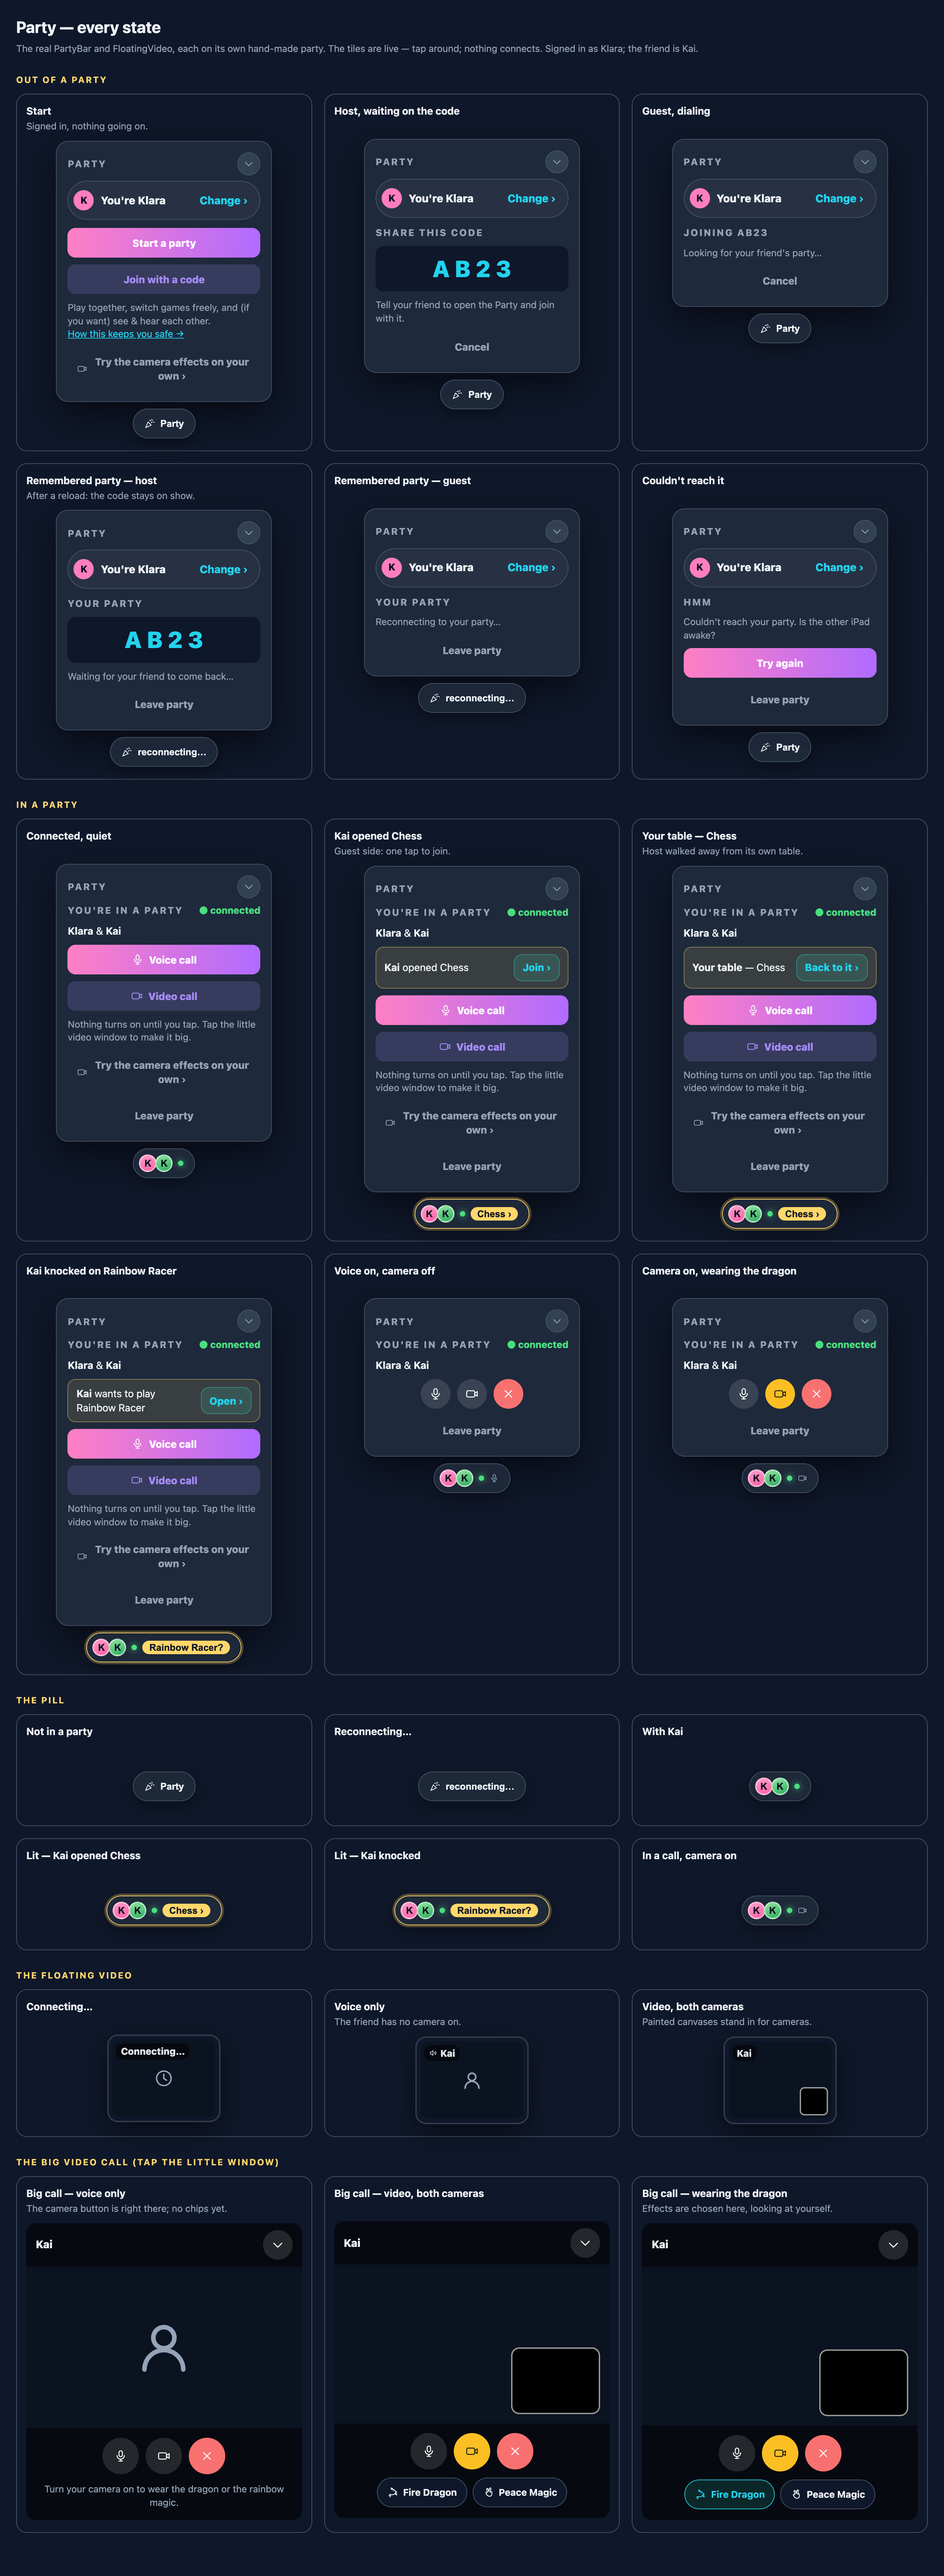
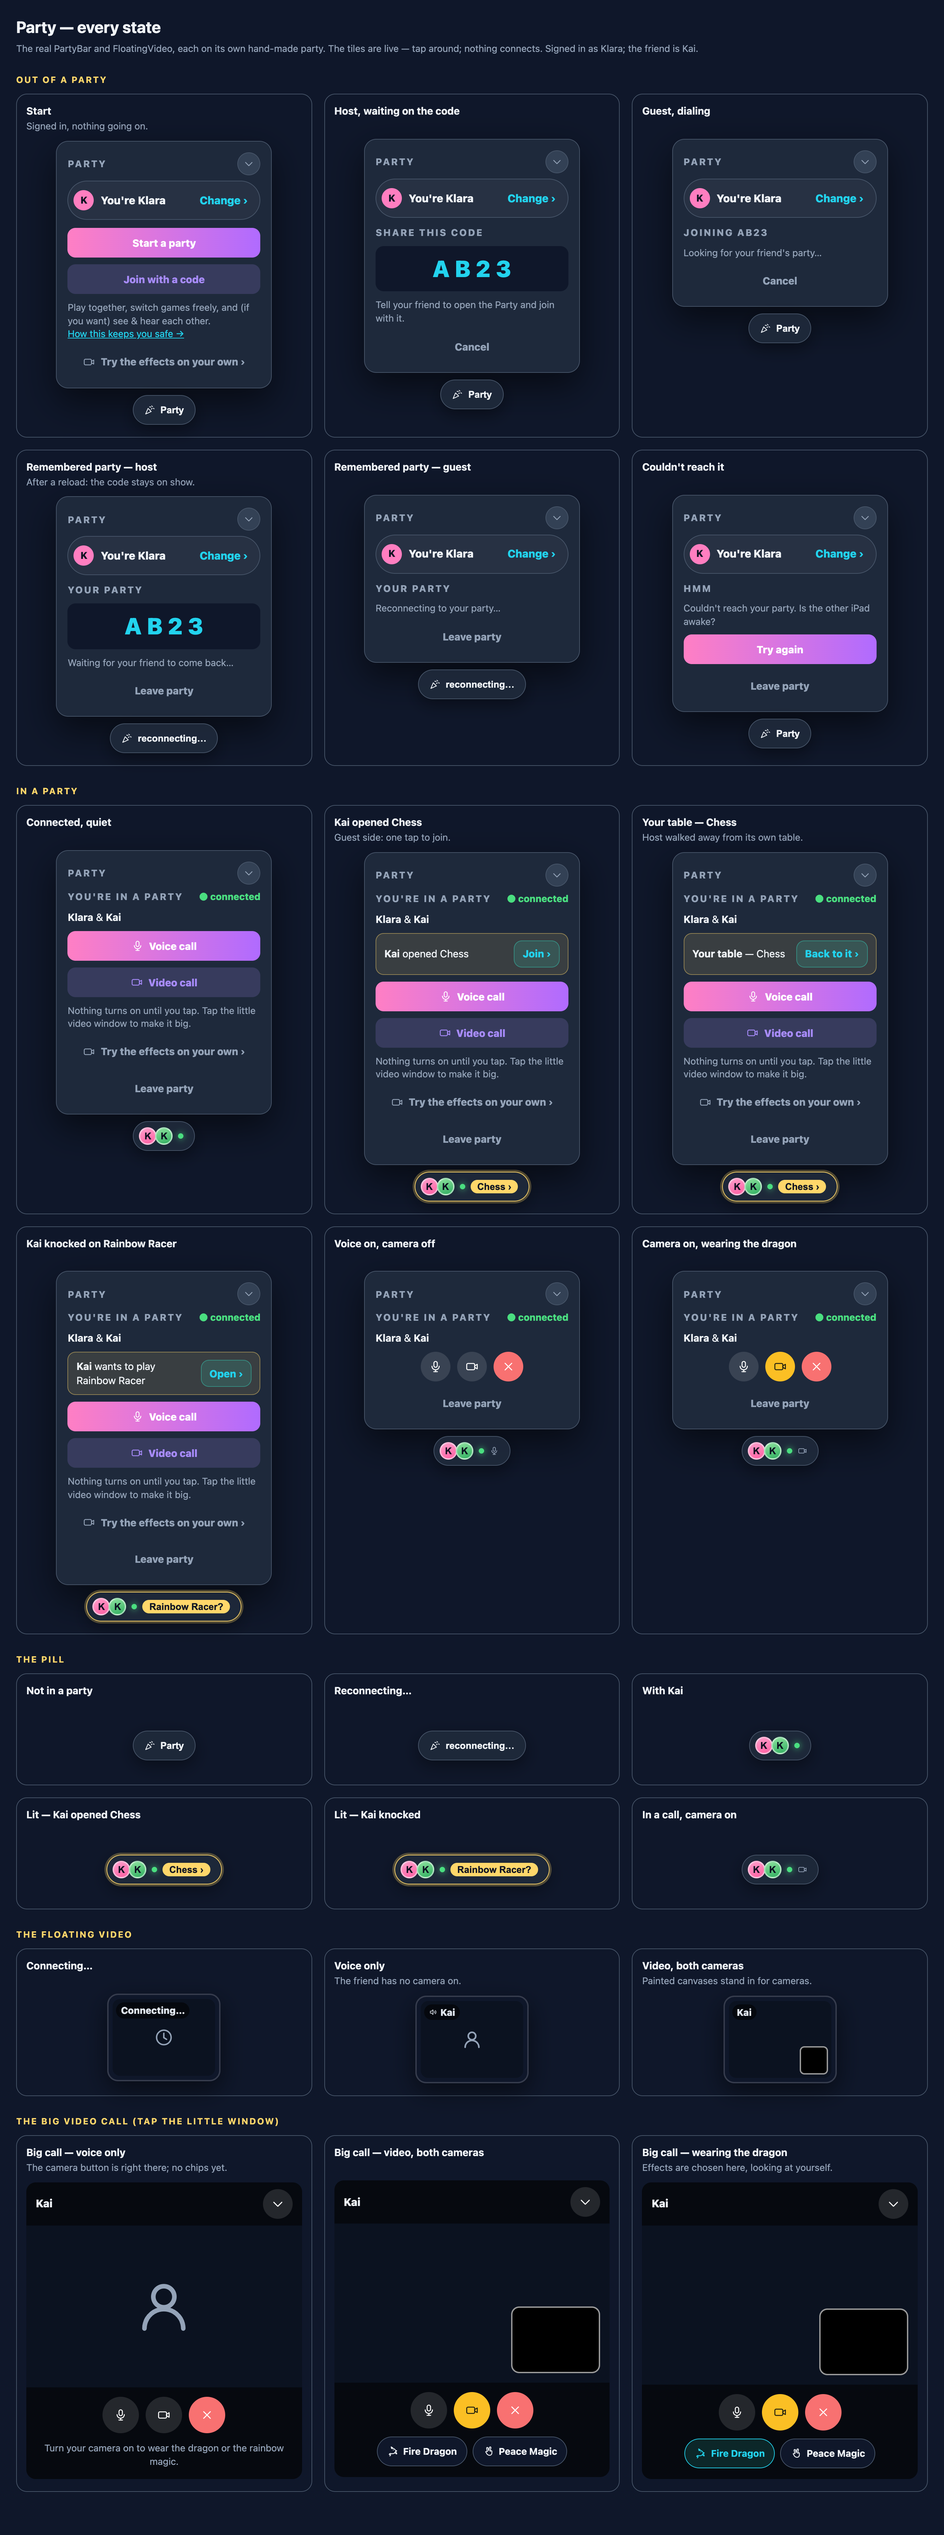
polish(party): the door fits on one line
Claude-Session: https://claude.ai/code/session_0146VWPAYsAFebJ5DNhYKXg7

diff --git a/src/shared/party/PartyBar.tsx b/src/shared/party/PartyBar.tsx
@@ -60,7 +60,7 @@ export function PartyBar({
   // and under the call doors, and steps aside once a call is on.
   const soloDoor = soloEffects && (
     <Link className="party-btn ghost" to={soloEffects.path} onClick={() => setOpen(false)} data-testid="party-solo-effects">
-      <CameraIcon size={18} /> Try the camera effects on your own ›
+      <CameraIcon size={18} /> Try the effects on your own ›
     </Link>
   );
 
